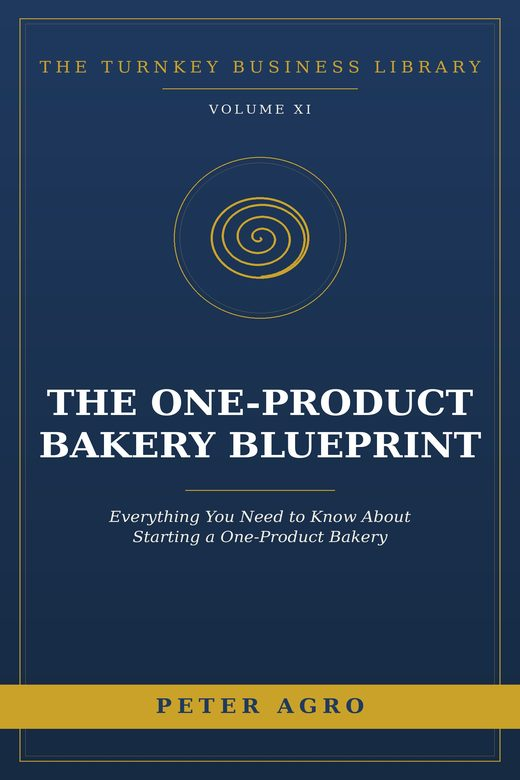
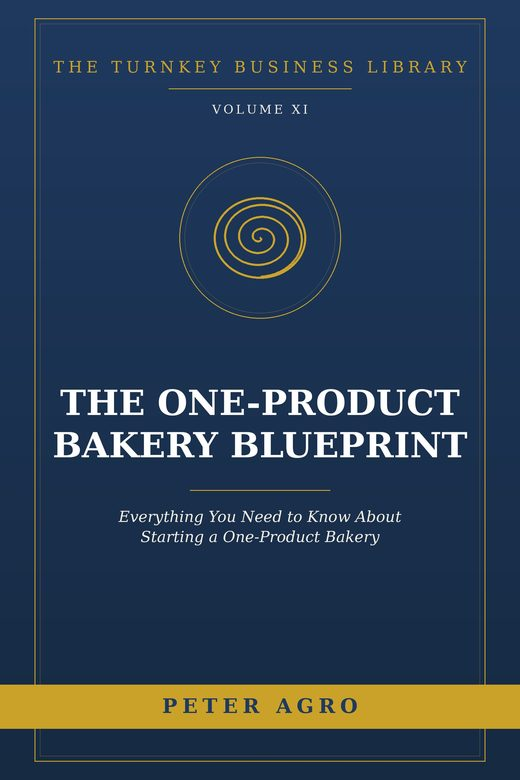
Add files via upload

diff --git a/index.html b/index.html
@@ -57,8 +57,8 @@
       <a class="spine" role="listitem" href="#ai"><span class="spine-title">Make Money with AI</span><span class="spine-vol">&mdash;</span></a>
       <a class="spine spine--gold" role="listitem" href="#owners-advantage"><span class="spine-title">The Owner&rsquo;s Advantage</span><span class="spine-vol">C&middot;I</span></a>
       <a class="spine spine--gold" role="listitem" href="#partners-advantage"><span class="spine-title">The Partner&rsquo;s Advantage</span><span class="spine-vol">C&middot;II</span></a>
-      <a class="spine spine--gold" role="listitem" href="#government"><span class="spine-title">The Government Customer</span><span class="spine-vol">&bull;</span></a>
-      <a class="spine spine--gold" role="listitem" href="#sellers-advantage"><span class="spine-title">The Seller&rsquo;s Advantage</span><span class="spine-vol">C&middot;III</span></a>
+      <a class="spine spine--gold" role="listitem" href="#government"><span class="spine-title">The Government Contractor&rsquo;s Advantage</span><span class="spine-vol">C&middot;III</span></a>
+      <a class="spine spine--gold" role="listitem" href="#sellers-advantage"><span class="spine-title">The Seller&rsquo;s Advantage</span><span class="spine-vol">C&middot;IV</span></a>
       <a class="spine spine--ink" role="listitem" href="#trilogy"><span class="spine-title">The Brazilian Protocol</span><span class="spine-vol">1</span></a>
       <a class="spine spine--ink" role="listitem" href="#trilogy"><span class="spine-title">The One-Person Empire</span><span class="spine-vol">2</span></a>
       <a class="spine spine--ink" role="listitem" href="#trilogy"><span class="spine-title">The Freedom Portfolio</span><span class="spine-vol">3</span></a>
@@ -246,17 +246,17 @@
 
         <article class="book" id="government">
           <a href="https://www.amazon.com/dp/B0HL6TFHRD?tag=142014332030-20" rel="noopener">
-            <img src="government.jpg" alt="Cover of The Government Customer" loading="lazy" width="520" height="780">
-            <p class="book-vol">Companion</p>
-            <p class="book-title">The Government Customer</p>
+            <img src="government.jpg" alt="Cover of The Government Contractor&rsquo;s Advantage" loading="lazy" width="520" height="780">
+            <p class="book-vol">Companion III</p>
+            <p class="book-title">The Government Contractor&rsquo;s Advantage</p>
           </a>
           <p class="book-note">Registration, bidding, and getting paid when the customer is an agency.</p>
         </article>
 
         <article class="book" id="sellers-advantage">
           <a href="https://www.amazon.com/dp/B0HBPVKZ6C?tag=142014332030-20" rel="noopener">
-            <img src="sellers.jpg" alt="Cover of The Seller&rsquo;s Advantage" loading="lazy" width="520" height="832">
-            <p class="book-vol">Companion III</p>
+            <img src="sellers.jpg" alt="Cover of The Seller&rsquo;s Advantage" loading="lazy" width="520" height="780">
+            <p class="book-vol">Companion IV</p>
             <p class="book-title">The Seller&rsquo;s Advantage</p>
           </a>
           <p class="book-note">How to sell the business you built for the most money, on the best terms, without losing the deal.</p>
